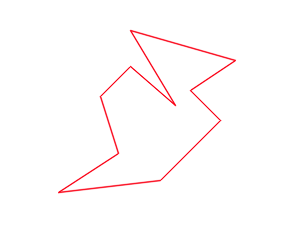
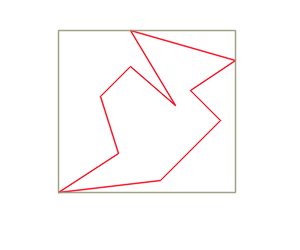
fixed docs figures, added tests

Changed region(s): [[0.18, 0.112, 0.81, 0.784]]

diff --git a/homog2d.hpp b/homog2d.hpp
@@ -3572,7 +3572,7 @@ value in [0,PI/2], so we would'nt be able to detect a segment going
 				ptset.push_back( i );
 #endif
 		}
-		priv::printVector( ptset, "ptset " );
+//		priv::printVector( ptset, "ptset " );
 
 		if( ptset.size() == 0 ) // if no same angle segment (=no "middle point")
 		{                       // then return the same Polyline
@@ -4297,7 +4297,7 @@ convertToCoord(
 	return Polyline_<FPT>( v_pts, IsClosed::Yes );
 }
 
-
+#if 0
 Table
 convertStringToTable( const std::vector<std::string>& v_str )
 {
@@ -4309,10 +4309,10 @@ convertStringToTable( const std::vector<std::string>& v_str )
 			table[r][c] = Cell( str[c] == 'F' );
 	}
 
-	printTable( table, "convertStringToTable" );
+//	printTable( table, "convertStringToTable" );
 	return table;
 }
-
+#endif
 
 } // namespace priv
 } // namespace runion
@@ -4434,7 +4434,7 @@ FRect_<FPT>::unionArea( const FRect_<FPT2>& other ) const
 
 	std::sort( vx.begin(), vx.end() );
 	std::sort( vy.begin(), vy.end() );
-	priv::printArray( vx, "vx" ); priv::printArray( vy, "vy");
+//	priv::printArray( vx, "vx" ); priv::printArray( vy, "vy");
 
 // step 2: fill table\n";
 	Table table;
@@ -4443,12 +4443,12 @@ FRect_<FPT>::unionArea( const FRect_<FPT2>& other ) const
 		for( uint8_t c=0;c<4; c++ )
 			table[r][c] = Cell( vx[r], vy[c] );
 #endif
-	printTable( table, "after step 2" );
+//	printTable( table, "after step 2" );
 //	cleanTable( table );
 
 // step 3: parse table
 	auto vpts = parseTable( table );
-	priv::printVectorPairs( vpts );
+//	priv::printVectorPairs( vpts );
 
 // step 4: convert back vector of coordinates indexes into vector of coordinates
 #if 1

diff --git a/misc/homog2d_test.cpp b/misc/homog2d_test.cpp
@@ -1381,7 +1381,7 @@ TEST_CASE( "FRect/FRect intersection", "[int_FF]" )
 	}
 
 }
-
+#if 0
 TEST_CASE( "priv: parse table", "[priv_parseTable]" )
 {
 	std::vector<std::string> v_str{".F.F","F...","F...",".F.F"};
@@ -1393,8 +1393,8 @@ TEST_CASE( "priv: parse table", "[priv_parseTable]" )
 			{0,1},{0,3},{3,3},{3,1},{2,1},{2,0},{1,0},{1,1}
 		}
 	);
-
 }
+#endif
 
 TEST_CASE( "Circle/Segment intersection", "[int_CS]" )
 {
@@ -1829,19 +1829,29 @@ TEST_CASE( "Segment", "[seg1]" )
 /// \todo what happens if the rectangles are of different FP type?
 TEST_CASE( "FRect pair bounding box", "[frect-BB]" )
 {
-	{
+	{                              // two identical rectangles
 		FRect_<NUMTYPE> r1, r2;
 		CHECK( getBB(r1,r2) == r1 );
 	}
-	{
+	{                                  // one bottom left, the other top right
 		FRect_<NUMTYPE> r1(0,0, 1,1);
 		FRect_<NUMTYPE> r2(2,2, 4,4);
 		CHECK( getBB(r1,r2) == FRect_<NUMTYPE>(0,0,4,4) );
 	}
-	{
+	{                                 // one top left, the other bottom right
 		FRect_<NUMTYPE> r1(0,2, 1,3);
 		FRect_<NUMTYPE> r2(2,0, 4,1);
 		CHECK( getBB(r1,r2) == FRect_<NUMTYPE>(0,0,4,3) );
+	}
+	{                                 // one inside the other
+		FRect_<NUMTYPE> r1(0,0, 5,5);
+		FRect_<NUMTYPE> r2(1,1, 3,3);
+		CHECK( getBB(r1,r2) == FRect_<NUMTYPE>(0,0,5,5) );
+	}
+	{                                 // one inside the other, with a common edge
+		FRect_<NUMTYPE> r1(0,0, 5,5);
+		FRect_<NUMTYPE> r2(1,0, 3,3);
+		CHECK( getBB(r1,r2) == FRect_<NUMTYPE>(0,0,5,5) );
 	}
 }
 

diff --git a/misc/showcase2.cpp b/misc/showcase2.cpp
@@ -32,6 +32,9 @@ int main( int argc, const char** argv )
 	{
 		cvmata = cv::Scalar(255,255,255);
 		cvmatb = cv::Scalar(255,255,255);
+		getBB(r1,r2).draw( imga, DrawParams().setColor(200,200,200) );
+		getBB(r1,r2).draw( imgb, DrawParams().setColor(200,200,200) );
+
 		r1.draw( imga, color_green );
 		r2.draw( imga, color_green );
 		r1.draw( imgb, color_green );

diff --git a/docs/figures_src/polyline1.cpp b/docs/figures_src/polyline1.cpp
@@ -27,6 +27,8 @@ int main()
 	img::Image<cv::Mat> img2( img );
 
 	pl.draw( img2, DrawParams().setColor(250,0,20) );
+	pl.getBB().draw( img2, DrawParams().setColor(150,150,120) );
+
 
 	cv::imwrite( "polyline1.png", img );
 }

diff --git a/docs/homog2d_manual.md b/docs/homog2d_manual.md
@@ -411,7 +411,7 @@ pl1.add( vpt );      // add a vector of points
 pl2.isClosed() = false;  // now open
 ```
 
-![polyline1](figures_src/polyline1.png)
+![A closed Polyline and its bounding box](figures_src/polyline1.png)
 
 It can be build directly from a `FRect` object:
 ```C++
@@ -853,6 +853,9 @@ This will return an object that can be checked for with the `()` operator (retur
 It will return `false` if there is no intersection.
 
 For the union of two rectangles, the usage is similar, but it will return a (closed) `Polyline` object.
+You may use either the `intersectArea()` (member or free) function, or the `|` operator.
+
+Additionaly, the `getBB()` free function returns the bounding box holding the two rectangles, as shown in the two samples figures below.
 
 ```C++
 auto a1 = r1.intersectArea(r2);
@@ -865,8 +868,8 @@ auto b2 = r1 | r2;
 auto b3 = unionArea( r1, r2 ); // free function
 ```
 
-![showcase2a](showcase2a.gif)
-![showcase2b](showcase2b.gif)
+![Example of intersection area](showcase2a.gif)
+![Example of union area](showcase2b.gif)
 
 Note that we may not have an intersection area **even** if there are some intersection points found, because these can be due to a shared segment,
 or a single intersection point.<br>
